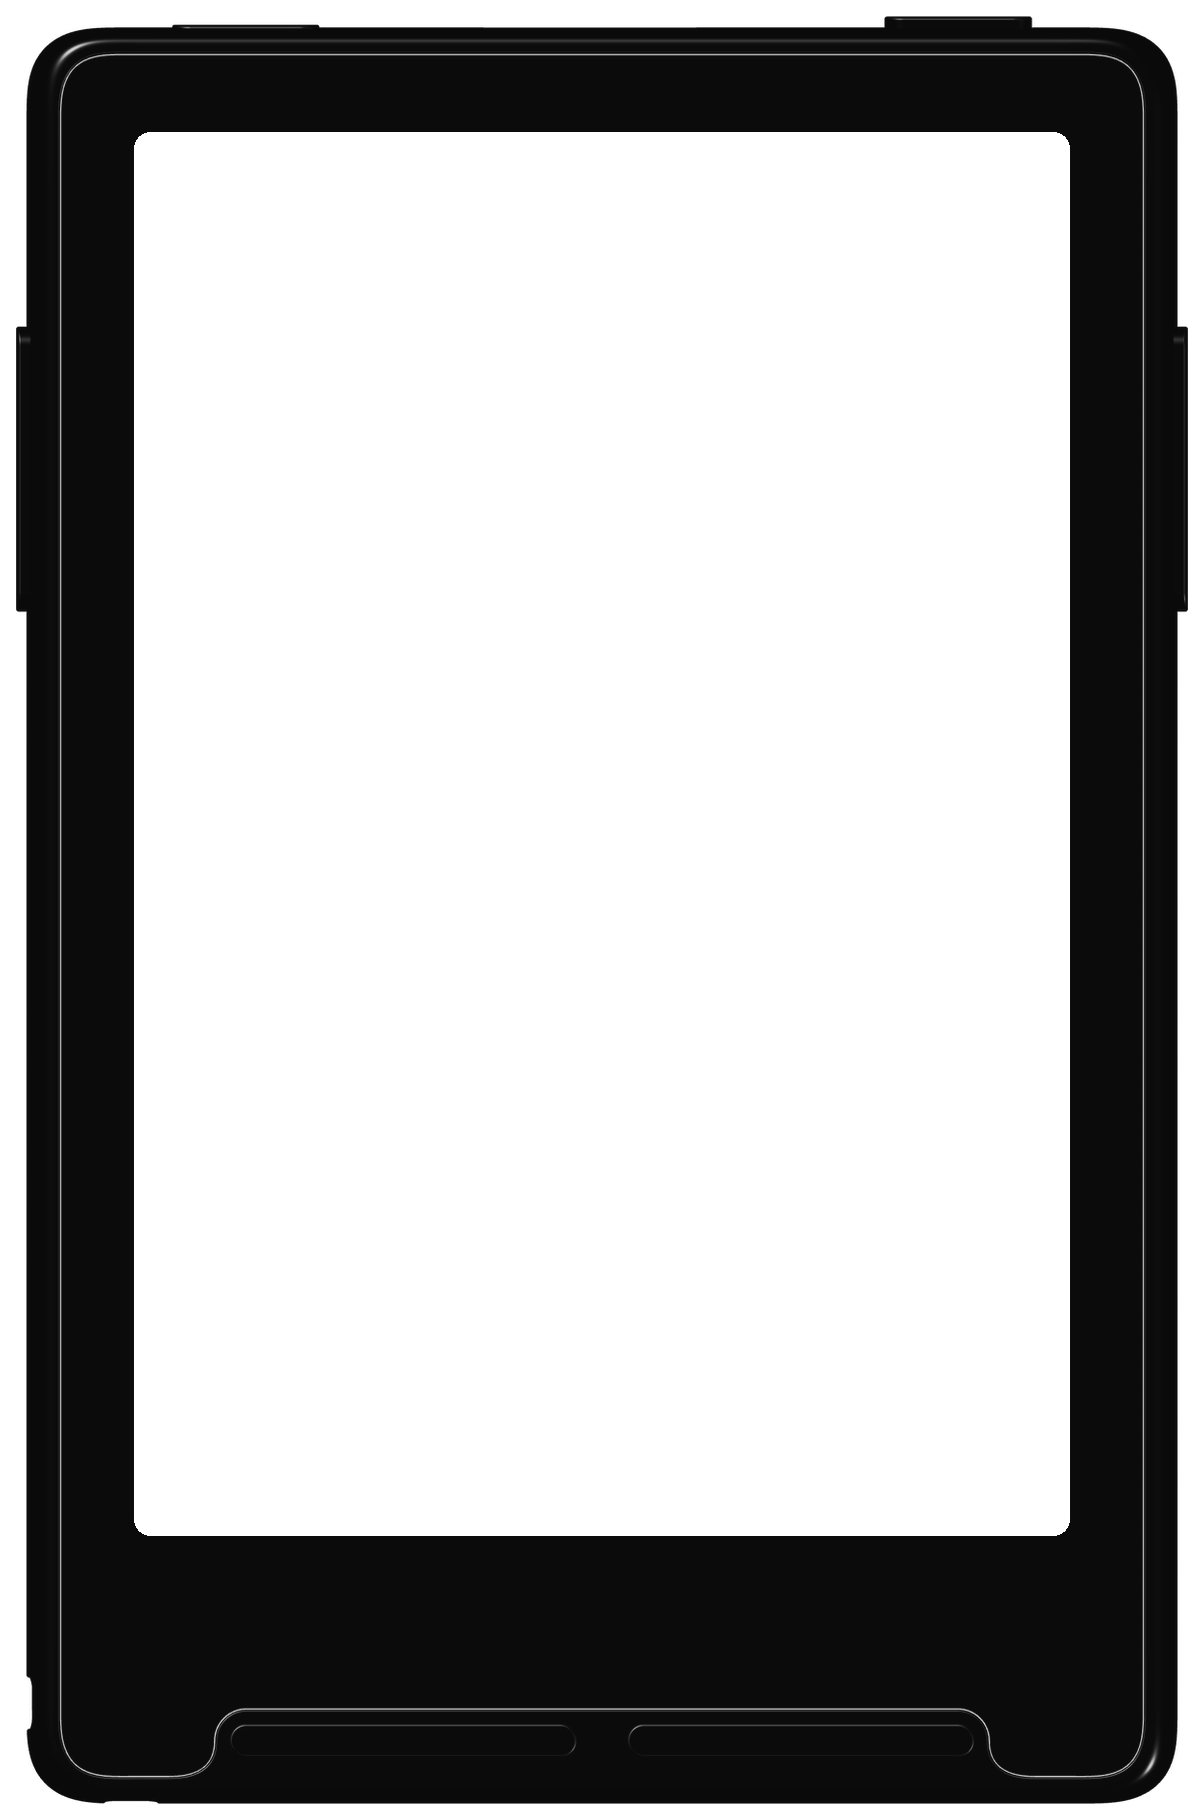
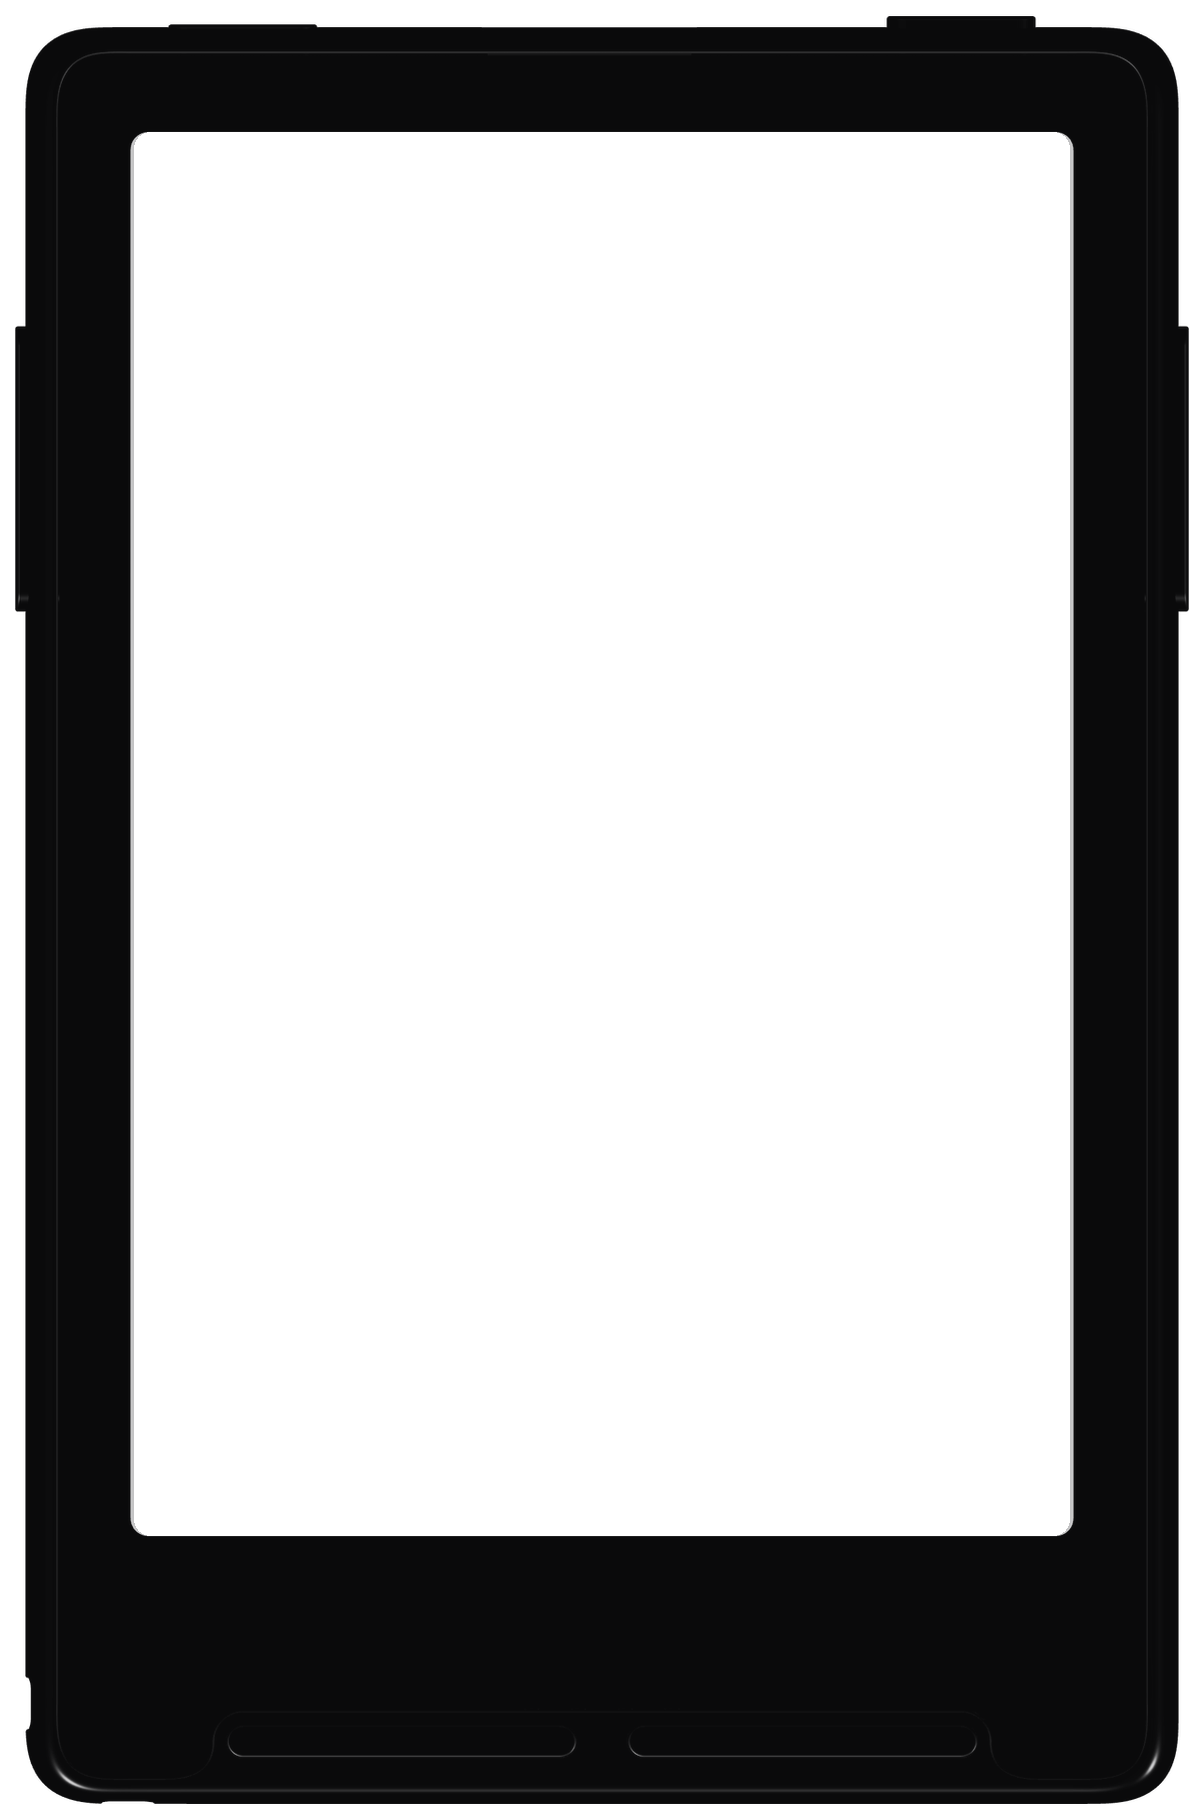
fix(preview): persist model and refine device controls
Keep common device choices available while the advanced panel is folded.
Follow the page theme until the reader color is explicitly chosen, and
render the black X3 without the white underlayer.

Save select choices on change and verify the model across a fresh page
load. Verified in Chrome and with the complete 920-test suite.

diff --git a/src/crossglyph/preview/static/style.css b/src/crossglyph/preview/static/style.css
@@ -593,9 +593,9 @@
     border-radius: 10px; padding: .1rem 1rem 1rem;
   }
 
-  /* One folded card under the device. It stays compact when open: controls
-     wrap by available width instead of reserving the panel's four-column knob
-     grid, and explanations live behind the heading's help badge. */
+  /* One folded card under the device. Its common choices stay in the heading,
+     where the folded card already has room for them. Opening the card reveals
+     only the scale and tone controls that need more explanation and width. */
   #device-preview {
     width: 100%; padding: .1rem .8rem .5rem;
     background: var(--panel); border: 1px solid var(--line);
@@ -603,36 +603,56 @@
   }
   :root:not([data-folds~="device"]) #device-preview { padding-bottom: .1rem; }
   #device-preview .section {
-    border-top: 0; padding: .35rem 0 .25rem;
+    border-top: 0; gap: .35rem; padding: .35rem 0 .25rem;
   }
-  .device-controls {
-    display: grid; grid-template-columns: repeat(2, minmax(0, 1fr));
-    gap: .35rem .55rem; padding: .15rem 0 .4rem;
+  #device-preview .section h2 { min-width: max-content; }
+  .device-quick {
+    display: flex; align-items: center; gap: .35rem; margin-left: auto;
   }
-  .device-field {
-    display: grid; gap: .15rem; min-width: 0;
+  .device-field { display: block; min-width: 0; }
+  .device-field > span {
+    position: absolute; width: 1px; height: 1px; overflow: hidden;
+    clip-path: inset(50%); white-space: nowrap;
   }
-  .device-field > span, .device-options > label:not(.device-check),
-  .device-tones > label {
-    color: var(--muted); font-size: 10px;
-    text-transform: uppercase; letter-spacing: .08em;
+  .device-quick select {
+    width: auto; min-width: 0; height: 1.55rem;
+    padding: .12rem 1.3rem .12rem .35rem; font-size: 10.5px;
   }
-  .device-field select {
-    width: 100%; min-width: 0; padding: .18rem .3rem; font-size: 11px;
+  #device-model { width: 4rem; }
+  #device-color { width: 5rem; }
+  .device-frame-toggle {
+    position: relative; width: 1.55rem; height: 1.55rem; flex: none;
+    display: grid; place-items: center; cursor: pointer;
+    color: var(--muted); background: var(--field);
+    border: 1px solid var(--line); border-radius: 4px;
   }
+  .device-frame-toggle:hover { color: var(--text); background: var(--hover); }
+  .device-frame-toggle:has(input:checked) {
+    color: var(--panel); background: var(--knob); border-color: var(--knob);
+  }
+  .device-frame-toggle:has(input:focus-visible) {
+    outline: 2px solid var(--focus); outline-offset: 2px;
+  }
+  .device-frame-toggle input {
+    position: absolute; inset: 0; margin: 0; opacity: 0; cursor: pointer;
+  }
+  .device-frame-toggle svg {
+    width: 14px; height: 14px; pointer-events: none;
+    fill: none; stroke: currentColor; stroke-width: 1.25;
+    stroke-linecap: round; stroke-linejoin: round;
+  }
+  .device-controls { padding: .15rem 0 .4rem; }
   .device-options {
-    grid-column: 1 / -1; display: grid;
-    grid-template-columns: auto auto minmax(5.5rem, 1fr) auto;
+    display: grid; grid-template-columns: auto minmax(5.5rem, 1fr) auto;
     align-items: center; gap: .35rem .45rem;
   }
-  #device-scale { width: 100%; min-width: 0; padding: .18rem .3rem;
-                  font-size: 11px; }
-  .device-check {
-    display: inline-flex; align-items: center; gap: .3rem; cursor: pointer;
+  .device-options > label, .device-tones > label {
     color: var(--muted); font-size: 10px;
     text-transform: uppercase; letter-spacing: .08em;
   }
-  .device-check input { margin: 0; }
+  #device-scale {
+    width: 100%; min-width: 0; padding: .18rem .3rem; font-size: 11px;
+  }
   #device-calibrate { padding: .18rem .45rem; font-size: 10.5px; }
   .device-tones {
     display: grid;

diff --git a/src/crossglyph/preview/static/js/device.js b/src/crossglyph/preview/static/js/device.js
@@ -60,6 +60,18 @@ function frameUrl() {
   return `device/${model.value}-${color.value}.png`;
 }
 
+let fixedColor = false;
+
+function themeColor() {
+  return document.documentElement.classList.contains("dark") ? "black" : "white";
+}
+
+export function syncDeviceColor() {
+  if (fixedColor) return;
+  color.value = themeColor();
+  layoutDevice();
+}
+
 function fitFactor(device, shown) {
   const width = shown ? device.frame.width : device.aperture.width;
   const height = shown ? device.frame.height : device.aperture.height;
@@ -177,11 +189,12 @@ function syncReadouts() {
 }
 
 function values() {
-  return {
-    device: model.value, color: color.value, frame: frameShown.checked,
-    scale: scale.value, paper: paper.value, ink: ink.value,
-    calibration: calibrationRange.value,
+  const state = {
+    device: model.value, frame: frameShown.checked, scale: scale.value,
+    paper: paper.value, ink: ink.value, calibration: calibrationRange.value,
   };
+  if (fixedColor) state.color = color.value;
+  return state;
 }
 
 function saveDevice() {
@@ -193,13 +206,17 @@ function validOption(select, value) {
 }
 
 export function loadDevice() {
+  fixedColor = false;
   const raw = attempt(() => localStorage.getItem(DEVICE_STORE), null);
   if (raw) {
     let saved = null;
     try { saved = JSON.parse(raw); } catch {}
     if (saved && typeof saved === "object") {
       if (validOption(model, saved.device)) model.value = saved.device;
-      if (validOption(color, saved.color)) color.value = saved.color;
+      if (validOption(color, saved.color)) {
+        color.value = saved.color;
+        fixedColor = true;
+      }
       if (validOption(scale, saved.scale)) scale.value = saved.scale;
       if (typeof saved.frame === "boolean") frameShown.checked = saved.frame;
       for (const [control, value] of [[paper, saved.paper], [ink, saved.ink],
@@ -210,6 +227,7 @@ export function loadDevice() {
       }
     }
   }
+  if (!fixedColor) color.value = themeColor();
   syncReadouts();
   layoutDevice();
 }
@@ -228,6 +246,8 @@ function resetDevice(scheduleRender) {
       control.value = control.defaultValue;
     }
   }
+  fixedColor = false;
+  color.value = themeColor();
   attempt(() => localStorage.removeItem(DEVICE_STORE));
   syncReadouts();
   paintDevicePage();
@@ -236,12 +256,17 @@ function resetDevice(scheduleRender) {
 }
 
 export function wireDevice(scheduleRender) {
-  model.addEventListener("input", () => {
+  model.addEventListener("change", () => {
     saveDevice();
     layoutDevice();
     scheduleRender();
   });
-  for (const control of [color, frameShown, scale]) {
+  color.addEventListener("change", () => {
+    fixedColor = true;
+    saveDevice();
+    layoutDevice();
+  });
+  for (const control of [frameShown, scale]) {
     control.addEventListener("input", () => {
       saveDevice();
       layoutDevice();

diff --git a/src/crossglyph/preview/static/index.html b/src/crossglyph/preview/static/index.html
@@ -394,12 +394,7 @@
           Paper and ink remap the four display levels without rerendering the
           font. Calibrate again after moving the window to another monitor.</span></span>
       </h2>
-      <button type="button" class="clear" id="reset-device"
-              title="Reset device preview"
-              aria-label="reset device preview">&#215;</button>
-    </div>
-    <div id="device-settings">
-      <div class="device-controls">
+      <div class="device-quick">
         <label class="device-field" for="device-model"><span>device</span>
           <select id="device-model" name="device" data-group="page"
                   data-device-setting form="knobs">
@@ -413,11 +408,24 @@
             <option value="white">white</option>
           </select>
         </label>
+        <label class="device-frame-toggle" for="device-frame-shown"
+               title="Show the selected reader body around its screen">
+          <input id="device-frame-shown" type="checkbox"
+                 aria-label="Show reader frame" data-device-setting checked>
+          <svg viewBox="0 0 18 18" aria-hidden="true">
+            <rect x="3" y="1.5" width="12" height="15" rx="1.8"/>
+            <rect x="5" y="3.5" width="8" height="9.5" rx=".6"/>
+            <path d="M7 14.7h4"/>
+          </svg>
+        </label>
+      </div>
+      <button type="button" class="clear" id="reset-device"
+              title="Reset device preview"
+              aria-label="reset device preview">&#215;</button>
+    </div>
+    <div id="device-settings">
+      <div class="device-controls">
         <div class="device-options">
-          <label class="device-check" for="device-frame-shown"
-                 title="Show the selected reader body around its screen">
-            <input id="device-frame-shown" type="checkbox"
-                   data-device-setting checked>frame</label>
           <label for="device-scale">scale</label>
           <select id="device-scale" data-device-setting>
             <option value="pixels" selected>1:1 pixels</option>

diff --git a/src/crossglyph/preview/static/js/start.js b/src/crossglyph/preview/static/js/start.js
@@ -1,6 +1,6 @@
 import {showAbout} from "./about.js";
 import {familyPicker} from "./family.js";
-import {loadDevice, wireDevice} from "./device.js";
+import {loadDevice, syncDeviceColor, wireDevice} from "./device.js";
 import {form, samplePicker, syncHyphenation, syncLineHeight} from "./dom.js";
 import {fillPresets, outField, showFallbackState,
         wireBuildButtons} from "./export.js";
@@ -11,6 +11,7 @@ import {wireResets} from "./resets.js";
 import {refreshReverts} from "./reverts.js";
 import {fillSamples, loadText, restoreSample, sampleChosen} from "./text.js";
 import {wireUntuned} from "./untuned.js";
+import {systemDark, themeButtons} from "./theme.js";
 import {fillFamilies, onFamilyChange, refreshFamilies} from "./variable.js";
 
 // Every listener that reaches across modules, in one place and after all of
@@ -21,6 +22,10 @@ import {fillFamilies, onFamilyChange, refreshFamilies} from "./variable.js";
 wireKnobs();
 wireRender();
 wireDevice(scheduleRender);
+for (const button of themeButtons) {
+  button.addEventListener("click", syncDeviceColor);
+}
+systemDark.addEventListener("change", syncDeviceColor);
 wireResets();
 wireUntuned();
 wireBuildButtons();

diff --git a/tests/test_preview_server.py b/tests/test_preview_server.py
@@ -965,6 +965,28 @@ def test_every_asset_the_page_asks_for_is_one_the_server_will_serve():
             f"the server will not serve {ref}"
 
 
+def test_common_device_controls_remain_available_while_folded():
+    """The folded island keeps its common choices and hides only advanced ones."""
+    import re
+
+    from crossglyph.preview import server
+
+    html = (server.STATIC / "index.html").read_text(encoding="utf-8")
+    preview = html.index('<div id="device-preview">')
+    settings = html.index('<div id="device-settings">', preview)
+    folded = html[preview:settings]
+    for control in ("device-model", "device-color", "device-frame-shown"):
+        assert f'id="{control}"' in folded, control
+    for control in ("device-scale", "device-paper", "device-ink"):
+        assert f'id="{control}"' not in folded, control
+
+    frame = re.search(
+        r'<label class="device-frame-toggle".*?</label>', folded, re.S)
+    assert frame is not None
+    assert "<svg " in frame.group()
+    assert 'aria-label="Show reader frame"' in frame.group()
+
+
 def test_a_checkbox_knob_is_marked_rather_than_given_an_arrow():
     """The arrow sets a value aside so you can flick back to it. A switch has
     nothing to set aside -- the value it is not showing is the other one, one

diff --git a/docs/preview.md b/docs/preview.md
@@ -236,9 +236,11 @@ white can read heavy in white on black.
 
 The **Device preview** under the page puts the rendered screen into an X3 or
 X4 body. It starts folded. X4 is the default; choosing X3 redraws at its native
-528 by 792 pixels instead of resizing the X4's 480 by 800 output. **Color**
-selects the black or white body, and **Frame** removes the body while keeping
-the selected screen proportions and rounded corners.
+528 by 792 pixels instead of resizing the X4's 480 by 800 output. The body
+color follows the page's light or dark appearance until you select black or
+white. That choice is remembered independently from the page appearance. The
+reader icon removes the body while keeping the selected screen proportions and
+rounded corners.
 
 **Paper** and **Ink** remap the panel's four levels without rebuilding the
 font. Both run from 0% to 100% in the direction their labels imply: more paper
